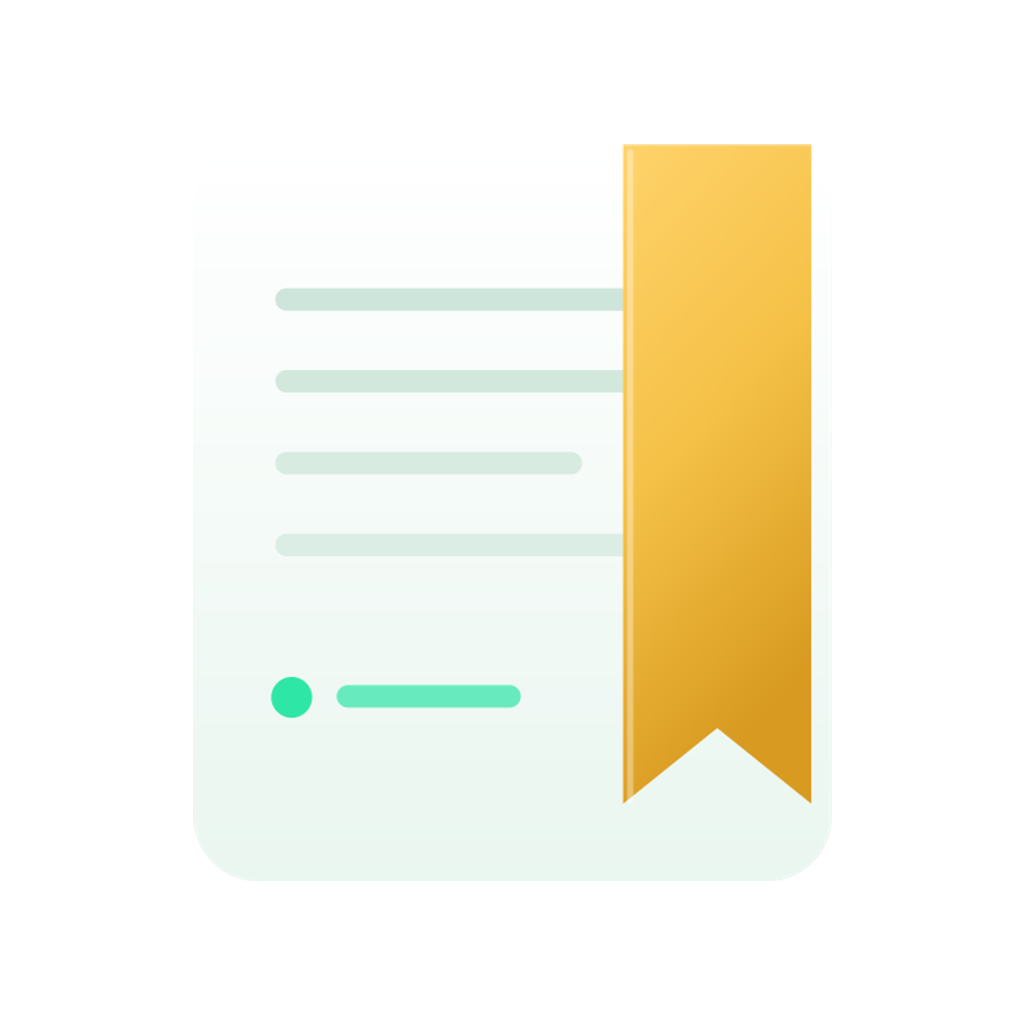
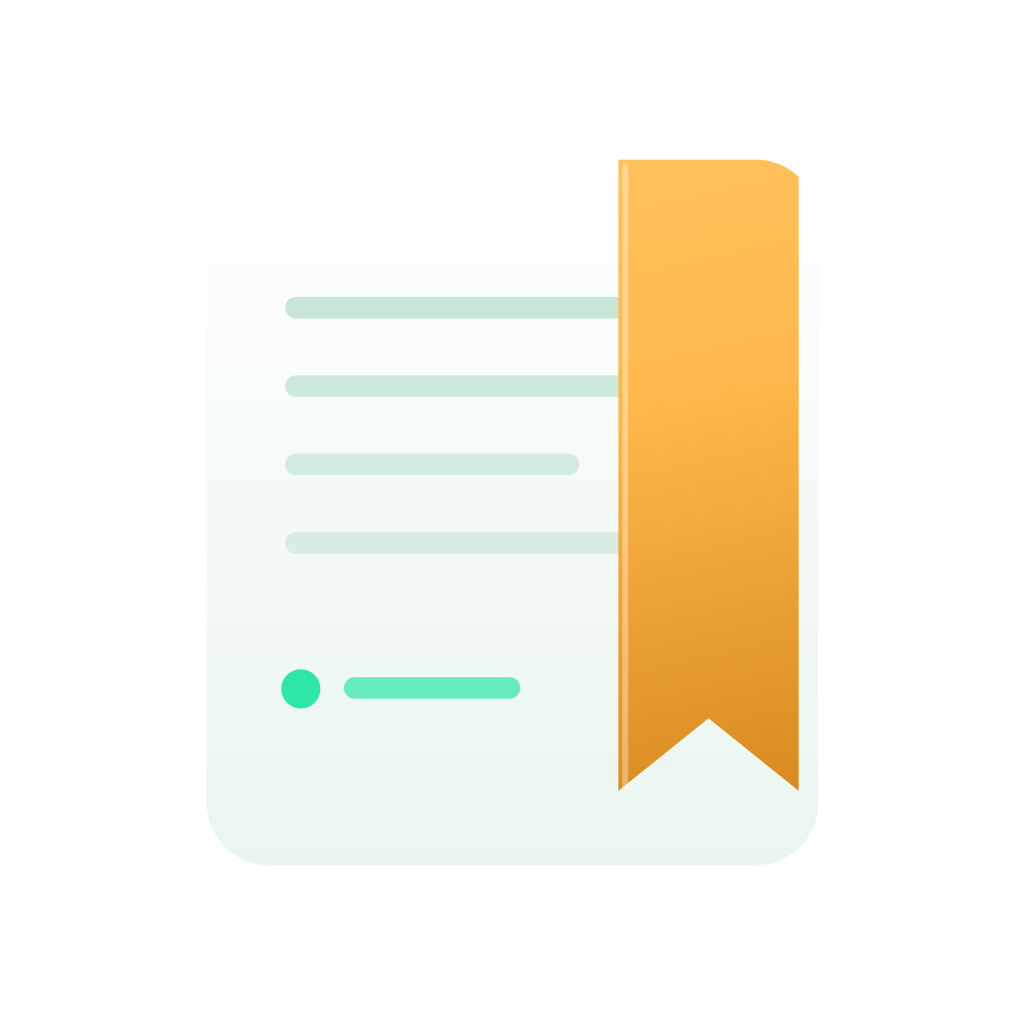
style(brand): чистый логотип — лента вровень с листом (clip) + изумруд + без фона
Фидбэк: лого с фоном не нужен, и жёлтая лента торчала над верхним краем листа
справа (за скруглённый угол).
- Лента-закладка теперь обрезается по форме листа (clipPath по карточке) —
  верх вровень, ничего не выпирает. И в иконке, и в in-app компоненте.
- MasterBookLogo: акценты изумруд (были фиолетовые из старой палитры),
  по умолчанию БЕЗ фоновой плашки (withBackground=false) — книжка сама по себе.
- gen-icons.mjs: иконки рисуются из чистого вектора (а не из старого арта с
  торчащей лентой): icon.png — на зелёном фоне (иконка обязана быть
  непрозрачной), splash/adaptive — на прозрачном.

diff --git a/src/components/MasterBookLogo.tsx b/src/components/MasterBookLogo.tsx
@@ -1,6 +1,6 @@
 import React from 'react';
 import { View, type ViewStyle } from 'react-native';
-import Svg, { Defs, LinearGradient, Rect, Stop, Path, Circle, G } from 'react-native-svg';
+import Svg, { Defs, LinearGradient, Rect, Stop, Path, Circle, G, ClipPath } from 'react-native-svg';
 
 interface MasterBookLogoProps {
   /** Размер квадратной иконки. Default 64. */
@@ -21,7 +21,7 @@ interface MasterBookLogoProps {
  * Семантически работает на MasterBook (книга мастера).
  * Универсально для всех профессий — не только бьюти.
  */
-export function MasterBookLogo({ size = 64, withBackground = true, style }: MasterBookLogoProps) {
+export function MasterBookLogo({ size = 64, withBackground = false, style }: MasterBookLogoProps) {
   const VB = 1024;
 
   return (
@@ -38,13 +38,17 @@ export function MasterBookLogo({ size = 64, withBackground = true, style }: Mast
           </LinearGradient>
           <LinearGradient id="mbCard" x1="0" y1="0" x2="0" y2="1">
             <Stop offset="0" stopColor="#FFFFFF" />
-            <Stop offset="1" stopColor="#F3EEFA" />
+            <Stop offset="1" stopColor="#EAF5EF" />
           </LinearGradient>
           <LinearGradient id="mbRibbon" x1="0" y1="0" x2="0.3" y2="1">
             <Stop offset="0" stopColor="#FFC766" />
             <Stop offset="0.5" stopColor="#FFB84D" />
             <Stop offset="1" stopColor="#D88A20" />
           </LinearGradient>
+          {/* Лента обрезается по форме листа — не торчит за скруглённый угол. */}
+          <ClipPath id="mbCardClip">
+            <Rect x="200" y="180" width="624" height="720" rx="64" />
+          </ClipPath>
         </Defs>
 
         {withBackground && (
@@ -58,17 +62,17 @@ export function MasterBookLogo({ size = 64, withBackground = true, style }: Mast
         <Rect x="200" y="180" width="624" height="720" rx="64" fill="url(#mbCard)" />
 
         {/* 4 lines of "writing" — varied opacity for hierarchy */}
-        <Rect x="280" y="320" width="360" height="22" rx="11" fill="#CFC4EC" />
-        <Rect x="280" y="400" width="460" height="22" rx="11" fill="#CFC4EC" opacity="0.88" />
-        <Rect x="280" y="480" width="300" height="22" rx="11" fill="#CFC4EC" opacity="0.75" />
-        <Rect x="280" y="560" width="380" height="22" rx="11" fill="#CFC4EC" opacity="0.62" />
+        <Rect x="280" y="320" width="360" height="22" rx="11" fill="#C7E6D8" />
+        <Rect x="280" y="400" width="460" height="22" rx="11" fill="#C7E6D8" opacity="0.88" />
+        <Rect x="280" y="480" width="300" height="22" rx="11" fill="#C7E6D8" opacity="0.75" />
+        <Rect x="280" y="560" width="380" height="22" rx="11" fill="#C7E6D8" opacity="0.62" />
 
-        {/* Highlighted entry — «today / marked» (purple dot + line) */}
-        <Circle cx="296" cy="720" r="20" fill="#A892FF" />
-        <Rect x="340" y="708" width="180" height="22" rx="11" fill="#A892FF" opacity="0.7" />
+        {/* Highlighted entry — «today / marked» (emerald dot + line) */}
+        <Circle cx="296" cy="720" r="20" fill="#2EE6A6" />
+        <Rect x="340" y="708" width="180" height="22" rx="11" fill="#2EE6A6" opacity="0.7" />
 
-        {/* Gold ribbon */}
-        <G>
+        {/* Gold ribbon — обрезана по форме листа (clip), верх вровень с краем */}
+        <G clipPath="url(#mbCardClip)">
           <Path
             d="M 620 180 L 620 824 L 712 750 L 804 824 L 804 180 Z"
             fill="url(#mbRibbon)"